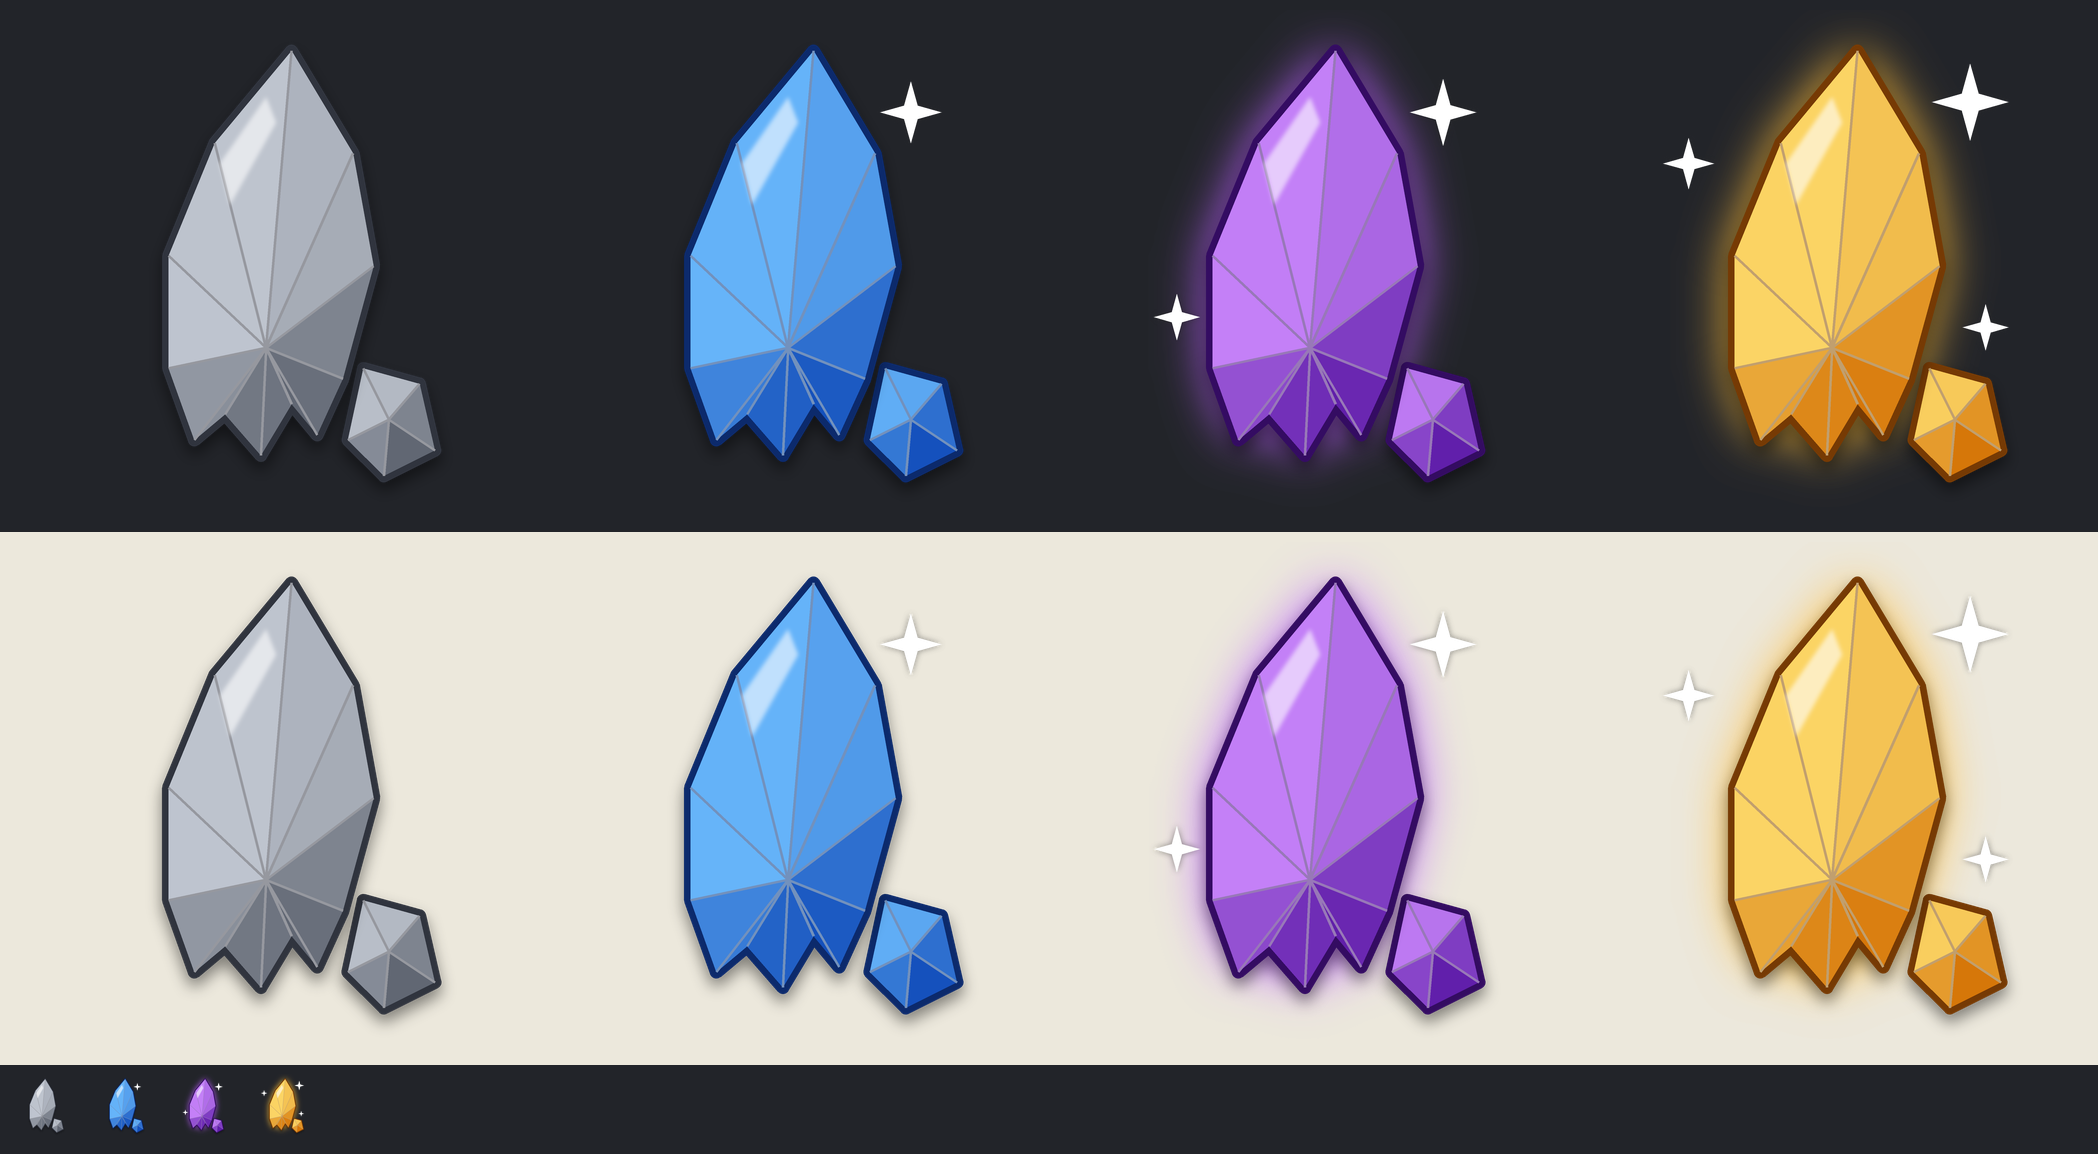
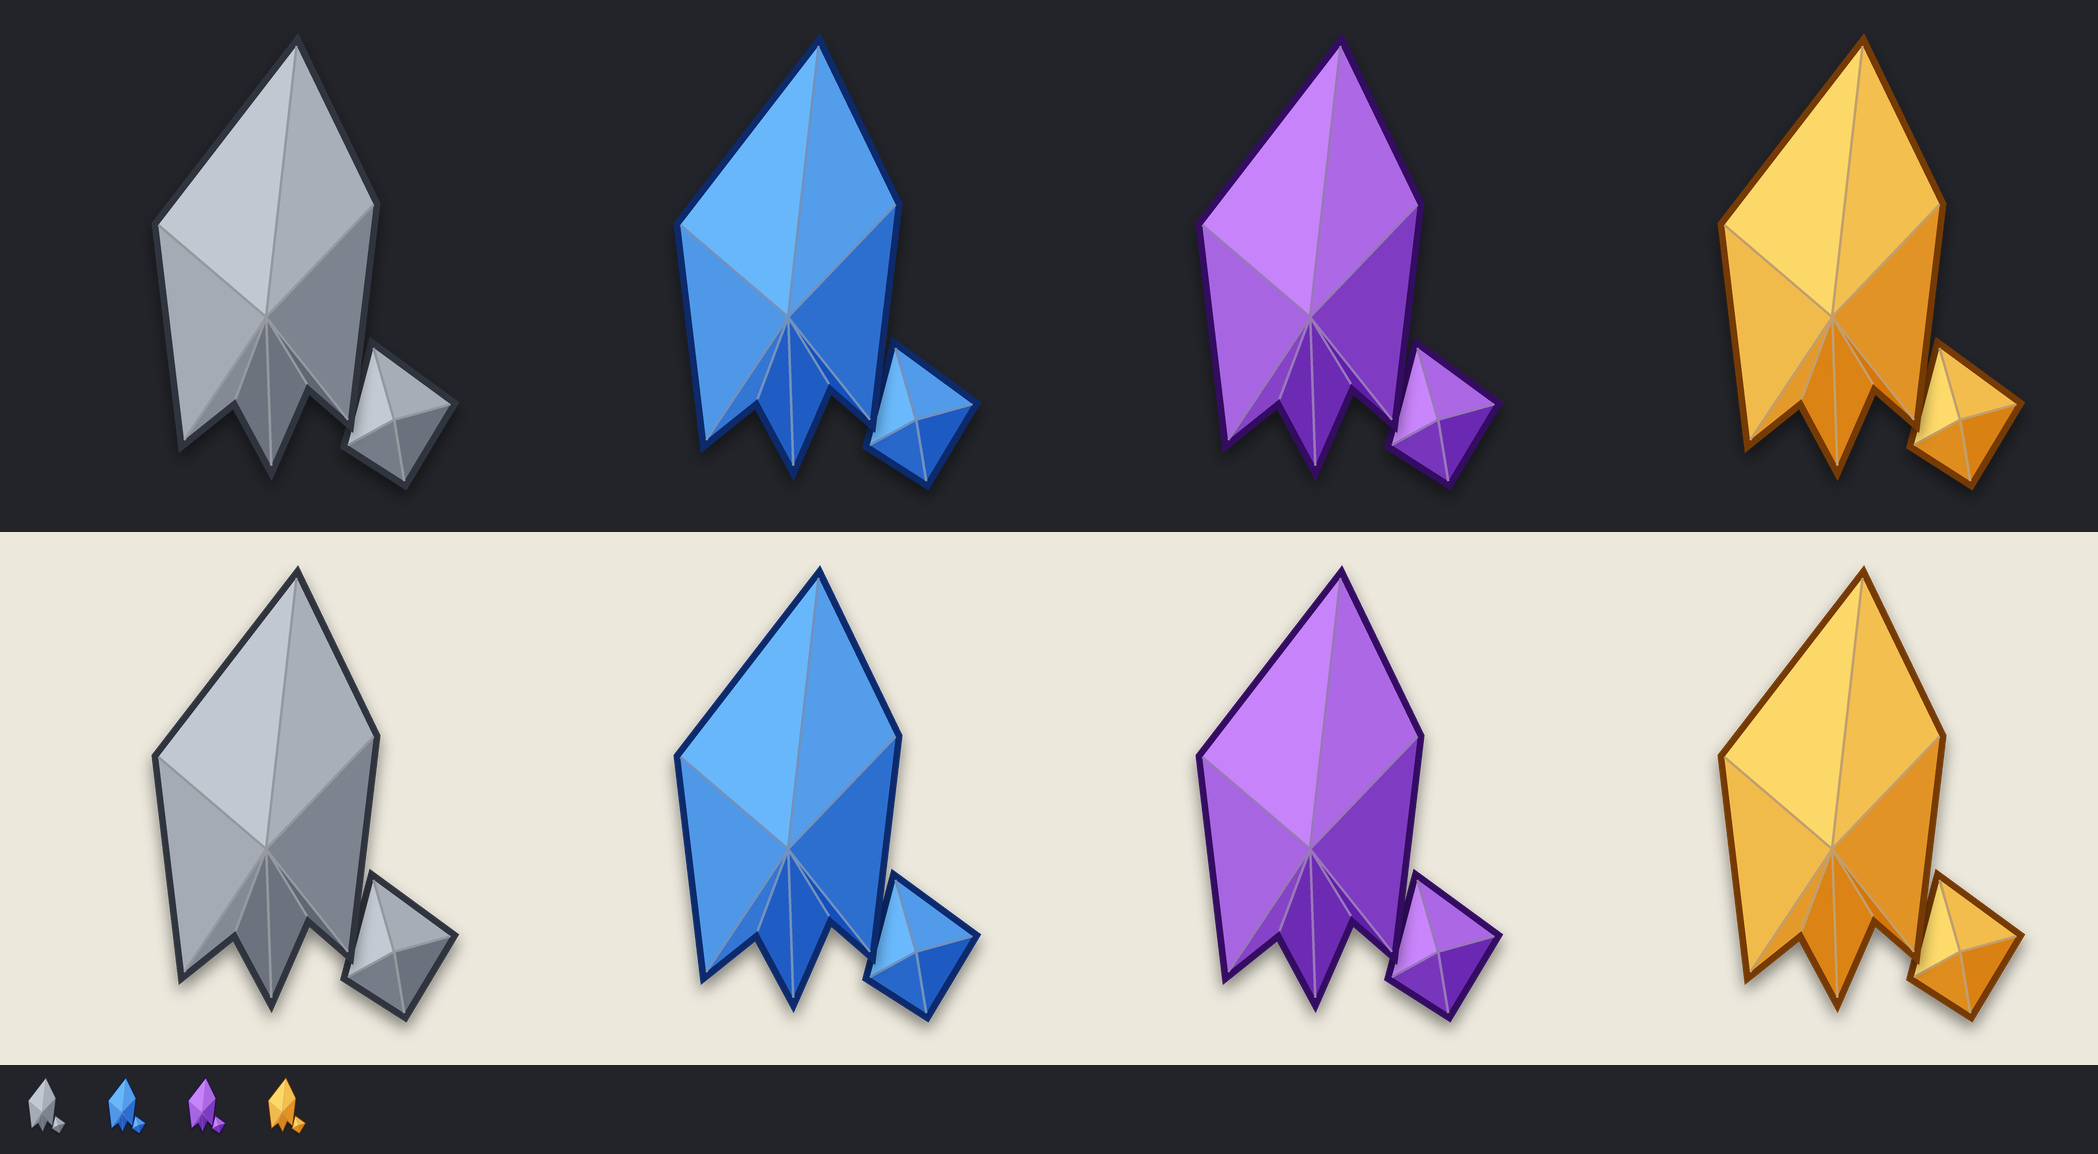
Make rarity shards angular, drop sparkles and glow
Straight-edged shard and chip with mitered (sharp) outline corners; no
glow, sparkles or gloss streak.

Claude-Session: https://claude.ai/code/session_01NgtV2AR7dTSbumQnxDyTFN

diff --git a/images/rarity-shards/render_shard_icons.py b/images/rarity-shards/render_shard_icons.py
@@ -1,6 +1,6 @@
 """Renders the Wyrmhaven rarity shards (a broken, faceted crystal shard plus
 a small chip) as PNGs, one per rarity, in the colors of the rarity badges
-(images/rarities). Higher rarities get a glow and more sparkles.
+(images/rarities). Straight edges and sharp corners, no glow or sparkles.
 Drawn at 4x and downsampled for smooth edges. Output: <Rarity>.png (512px).
 """
 import math
@@ -15,22 +15,20 @@ CLEAR = (0, 0, 0, 0)
 LIGHT = (-0.6, -0.8)  # light from the top-left (screen coords, y down)
 
 RARITIES = {
-    # name: (light, dark, outline, glow or None, sparkles as (x, y, r))
-    # light/dark match the rarity badge disc top/bottom colors
-    "Common": ((200, 206, 216), (96, 102, 114), (48, 52, 62), None, []),
-    "Rare": ((110, 190, 255), (20, 80, 188), (12, 42, 108), None, [(0.74, 0.2, 0.06)]),
-    "Epic": ((206, 138, 255), (96, 30, 170), (52, 12, 98), (186, 96, 255), [(0.76, 0.2, 0.065), (0.24, 0.6, 0.045)]),
-    "Legendary": ((255, 222, 110), (214, 118, 8), (118, 58, 4), (255, 190, 60),
-                  [(0.77, 0.18, 0.075), (0.22, 0.3, 0.05), (0.8, 0.62, 0.045)]),
+    # name: (light, dark, outline) - light/dark match the rarity badge disc
+    "Common": ((200, 206, 216), (96, 102, 114), (48, 52, 62)),
+    "Rare": ((110, 190, 255), (20, 80, 188), (12, 42, 108)),
+    "Epic": ((206, 138, 255), (96, 30, 170), (52, 12, 98)),
+    "Legendary": ((255, 222, 110), (214, 118, 8), (118, 58, 4)),
 }
 
 # Main shard: tall, leaning, with a jagged broken base. Core = where facets meet.
-SHARD = [(0.55, 0.08), (0.67, 0.28), (0.71, 0.5), (0.65, 0.72), (0.6, 0.83), (0.55, 0.77), (0.49, 0.87),
-         (0.42, 0.79), (0.36, 0.84), (0.31, 0.7), (0.31, 0.48), (0.4, 0.26)]
-SHARD_CORE = (0.5, 0.66)
+SHARD = [(0.56, 0.07), (0.71, 0.38), (0.66, 0.8), (0.58, 0.73), (0.51, 0.89), (0.44, 0.76), (0.34, 0.84),
+         (0.29, 0.42)]
+SHARD_CORE = (0.5, 0.6)
 # Small chip lying at its foot
-CHIP = [(0.69, 0.7), (0.8, 0.73), (0.83, 0.86), (0.73, 0.91), (0.66, 0.84)]
-CHIP_CORE = (0.74, 0.8)
+CHIP = [(0.71, 0.66), (0.86, 0.77), (0.77, 0.92), (0.66, 0.85)]
+CHIP_CORE = (0.75, 0.8)
 
 
 def p(x, y):
@@ -39,6 +37,28 @@ def p(x, y):
 
 def lerp(a, b, t):
     return tuple(round(a[i] + (b[i] - a[i]) * t) for i in range(3))
+
+
+def miter_offset(pts, w):
+    """Polygon grown outward by w with sharp (mitered) corners."""
+    area = sum(pts[i][0] * pts[(i + 1) % len(pts)][1] - pts[(i + 1) % len(pts)][0] * pts[i][1] for i in range(len(pts)))
+    sign = 1 if area > 0 else -1  # outward side of each edge
+    normals = []
+    for i in range(len(pts)):
+        (ax, ay), (bx, by) = pts[i], pts[(i + 1) % len(pts)]
+        ex, ey = bx - ax, by - ay
+        ln = math.hypot(ex, ey)
+        normals.append((-ey / ln * -sign, ex / ln * -sign))
+    out = []
+    for i, (x, y) in enumerate(pts):
+        n1, n2 = normals[i - 1], normals[i]
+        k = 1 + n1[0] * n2[0] + n1[1] * n2[1]
+        mx, my = (n1[0] + n2[0]) / k, (n1[1] + n2[1]) / k
+        m = math.hypot(mx, my)
+        if m > 3:  # cap very sharp spikes
+            mx, my = mx * 3 / m, my * 3 / m
+        out.append((x + mx * w, y + my * w))
+    return out
 
 
 def solid(color, alpha):
@@ -50,9 +70,9 @@ def crystal(outline_pts, core, light, dark, edge):
     sil = Image.new("L", (S, S), 0)
     pts = [p(*v) for v in outline_pts]
     ImageDraw.Draw(sil).polygon(pts, fill=255)
-    # outline: the silhouette plus a thick stroke along its edge
-    grown = sil.copy()
-    ImageDraw.Draw(grown).line(pts + [pts[0], pts[1]], fill=255, width=int(S * 0.026), joint="curve")
+    # outline: the silhouette pushed outward with mitered (sharp) corners
+    grown = Image.new("L", (S, S), 0)
+    ImageDraw.Draw(grown).polygon([p(*v) for v in miter_offset(outline_pts, 0.013)], fill=255)
     shadow = grown.filter(ImageFilter.GaussianBlur(S * 0.014)).point(lambda v: v * 0.45)
     img.alpha_composite(solid((0, 0, 0), shadow), (0, int(S * 0.016)))
     img.alpha_composite(solid(edge, grown))
@@ -74,34 +94,13 @@ def crystal(outline_pts, core, light, dark, edge):
     return img, sil
 
 
-def render(light, dark, edge, glow, sparkles):
+def render(light, dark, edge):
     img = Image.new("RGBA", (S, S), CLEAR)
-    if glow:
-        g = Image.new("L", (S, S), 0)
-        ImageDraw.Draw(g).polygon([p(*v) for v in SHARD], fill=190)
-        g = g.filter(ImageFilter.GaussianBlur(S * 0.05)).point(lambda v: min(255, v * 1.6))
-        img.alpha_composite(solid(glow, g))
     chip, _ = crystal(CHIP, CHIP_CORE, light, dark, edge)
     img.alpha_composite(chip)
     shard, sil = crystal(SHARD, SHARD_CORE, light, dark, edge)
     img.alpha_composite(shard)
 
-    # gloss streak on the upper left face + a bright edge along the top
-    gloss = Image.new("L", (S, S), 0)
-    ImageDraw.Draw(gloss).polygon([p(0.41, 0.3), p(0.5, 0.17), p(0.52, 0.22), p(0.43, 0.38)], fill=150)
-    gloss = Image.composite(gloss, Image.new("L", (S, S), 0), sil).filter(ImageFilter.GaussianBlur(S * 0.004))
-    img.alpha_composite(solid((255, 255, 255), gloss))
-
-    # sparkles with a soft dark halo so they read on light backgrounds too
-    sp = Image.new("RGBA", (S, S), CLEAR)
-    sd = ImageDraw.Draw(sp)
-    for x, y, r in sparkles:
-        w = r * 0.22
-        sd.polygon([p(x, y - r), p(x + w, y - w), p(x + r, y), p(x + w, y + w),
-                    p(x, y + r), p(x - w, y + w), p(x - r, y), p(x - w, y - w)], fill=(255, 255, 255, 255))
-    halo = sp.getchannel("A").filter(ImageFilter.GaussianBlur(S * 0.006)).point(lambda v: v * 0.5)
-    img.alpha_composite(solid((40, 40, 40), halo))
-    img.alpha_composite(sp)
     return img.resize((OUT, OUT), Image.LANCZOS)
 
 
